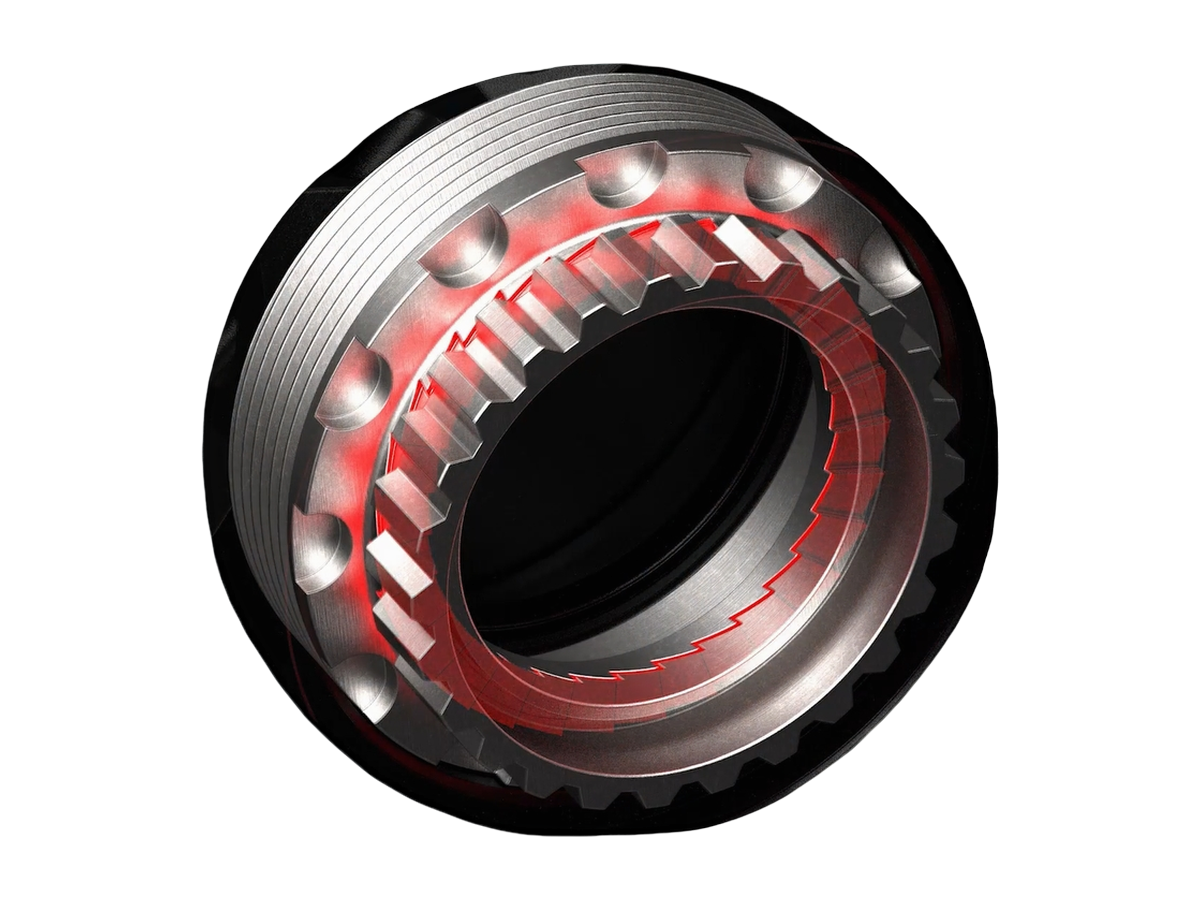
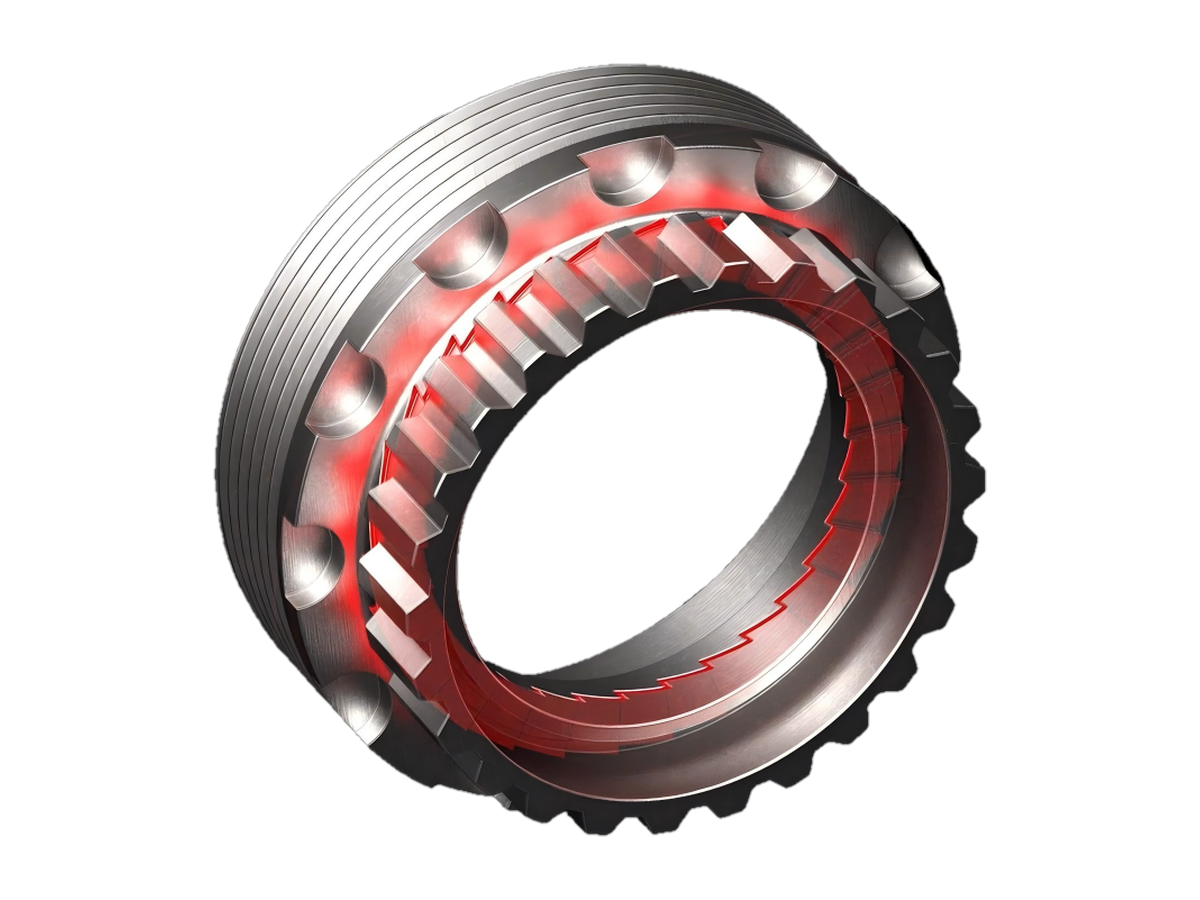
feat: Electric Coupler Hero响应式缩小出血+替换clutch图+锁图改白色卡片
- Hero产品图改clamp()视口自适应高度/宽度，下出血由-mb-28减到-mb-10，移除Dual的lg:pr-24避让
- 新透明clutch图原样覆盖lock-auto-clutch.png
- 三把锁容器由深色渐变面板改为白色卡片(bg-white+slate-200+shadow-sm)，去除彩色光晕

Coze-Commit-Type: user
Coze-User-ID: 2750326345577628
Coze-Conversation-ID: 13026806

diff --git a/src/app/products/electric-coupler/page.tsx b/src/app/products/electric-coupler/page.tsx
@@ -231,7 +231,7 @@ export default function ElectricCouplerPage() {
             </div>
 
             {/* Right: transparent PNG + CSS naked-eye 3D */}
-            <div className="relative z-20 mx-auto flex h-72 w-full items-center justify-center lg:h-[480px] lg:justify-end">
+            <div className="relative z-20 mx-auto flex h-72 w-full items-center justify-center lg:h-[clamp(340px,34vw,540px)] lg:justify-end">
               <div
                 aria-hidden
                 className="pointer-events-none absolute inset-0"
@@ -241,12 +241,12 @@ export default function ElectricCouplerPage() {
                   filter: 'blur(18px)',
                 }}
               />
-              <div className="animate-ec-float relative lg:-mb-28 lg:mr-[-1.5rem]">
+              <div className="animate-ec-float relative lg:-mb-10 lg:mr-[-1.5rem]">
                 <img
                   src="/products/electric-coupler-hero.png"
                   alt="HM Electric Quick Coupler – real product on excavator arm"
                   draggable={false}
-                  className="relative z-10 block h-auto max-h-full w-64 object-contain drop-shadow-[0_0_30px_rgba(59,130,246,0.35)] sm:w-72 lg:w-[440px]"
+                  className="relative z-10 block h-auto max-h-full w-64 object-contain drop-shadow-[0_0_30px_rgba(59,130,246,0.35)] sm:w-72 lg:w-[clamp(320px,30vw,480px)] xl:max-w-[460px]"
                 />
                 <div
                   aria-hidden
@@ -274,7 +274,7 @@ export default function ElectricCouplerPage() {
 
       {/* 2. DUAL OPERATING MODES */}
       <section className="bg-hm text-white">
-        <div className="mx-auto max-w-7xl px-4 py-16 sm:px-6 lg:px-8 lg:pr-24">
+        <div className="mx-auto max-w-7xl px-4 py-16 sm:px-6 lg:px-8">
           <div className="mx-auto max-w-2xl text-center">
             <p className="text-sm font-bold uppercase tracking-widest text-hm-bright-2">
               Dual Operating Modes
@@ -338,31 +338,15 @@ export default function ElectricCouplerPage() {
                 </div>
                 <div className="mt-4 grid items-center gap-6 lg:grid-cols-2">
                   <div
-                    className={`relative overflow-hidden rounded-2xl border border-white/10 ${
+                    className={`relative overflow-hidden rounded-2xl border border-slate-200 bg-white shadow-sm ${
                       i % 2 === 1 ? 'lg:order-last' : 'lg:order-first'
                     }`}
-                    style={{
-                      background:
-                        'radial-gradient(circle at 50% 28%, #123A6D 0%, #0A2E5C 45%, #050B18 100%)',
-                      boxShadow:
-                        'inset 0 1px 0 rgba(255,255,255,0.10), 0 12px 32px rgba(2,8,22,0.45)',
-                    }}
                   >
-                    <div
-                      aria-hidden
-                      className="pointer-events-none absolute inset-0 opacity-60"
-                      style={{
-                        background:
-                          i % 2 === 1
-                            ? 'radial-gradient(circle at 72% 18%, rgba(239,68,68,0.16), transparent 55%)'
-                            : 'radial-gradient(circle at 70% 20%, rgba(59,130,246,0.18), transparent 55%)',
-                      }}
-                    />
                     <img
                       src={t.image}
                       alt={t.title}
                       draggable={false}
-                      className="relative z-10 mx-auto block h-56 w-full object-contain p-5 drop-shadow-[0_0_18px_rgba(59,130,246,0.25)]"
+                      className="relative z-10 mx-auto block h-56 w-full object-contain p-6"
                     />
                   </div>
                   <div className="grid gap-4 sm:grid-cols-3 lg:grid-cols-1 xl:grid-cols-3">
